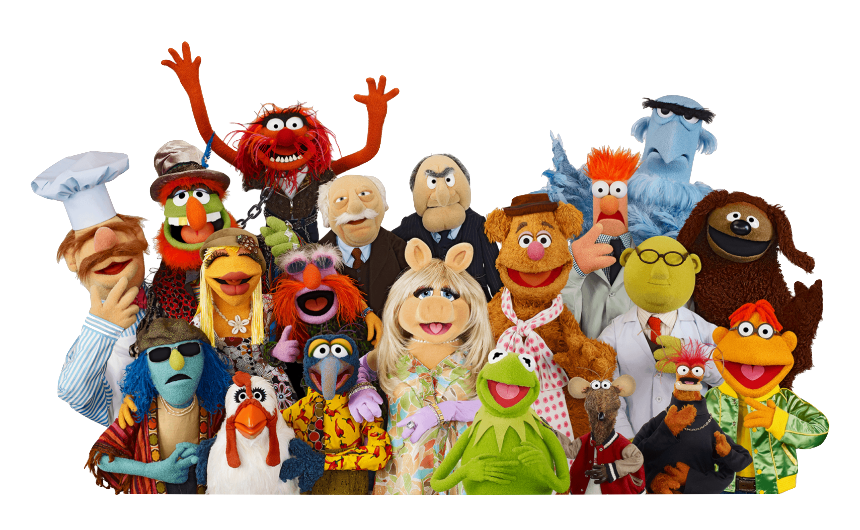
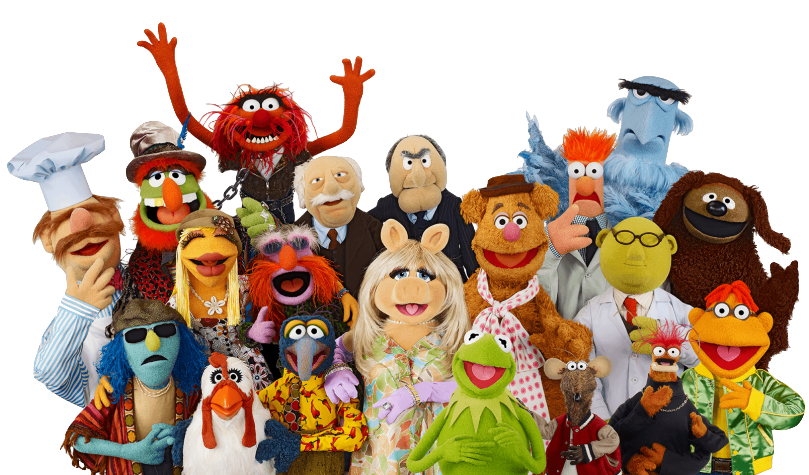
Styles muppets

diff --git a/styles.css b/styles.css
@@ -1,12 +1,75 @@
 body {
     background-color: #FEFF57;
+}
+
+header {
+    margin: 50px;
+    text-align: center;
+}
+
+main {
     display: flex;
     justify-content: center;
+    flex-wrap: wrap;
+    max-width: 1000px;
+    margin: 0 auto;
+}
+
+article img {
+    border-radius: 50%;
+    width: 175px;
+    height: 175px;
+    object-fit: cover;
+    object-position: top;
+    margin: 0 30px;
+}
+
+article {
+    display: flex;
+    justify-content: center;
+    align-items: center;
+    margin: 15px;
+}
+
+article div {
+    margin: 0 30px;
+}
+
+article div h4 {
+    font-family: muppetsFont, Monaco, sans-serif;
+    font-size: 30px;
+    letter-spacing: 1px;
+    margin: 0;
+    color: #174E90
+}
+
+article div p {
+    color: #174E90;
+    font-family: Monaco, sans-serif;
+    font-size: 20px;
+    margin: 20px 0;
+}
+
+article div button {
+    background-color: #729943;
+    border: none;
+    border-radius: 20px;
+    padding: 5px 20px;
+    font-family: Monaco, sans-serif;
+    color: #fff;
+    cursor: pointer;
 }
 
 section {
-    position: fixed;
+    position: static;
     bottom: 0;
+    text-align: center;
+    width: 100%;
+    margin: 0;
+}
+
+section img {
+    padding:0;
 }
 
 @media screen and (max-width: 880px) {
@@ -15,8 +78,26 @@ section {
     }
 }
 
+@media screen and (min-width: 880px){
+    article {
+        flex-direction: column;
+        margin-bottom: 30px;
+        text-align: center;
+    }
+    article img {
+        margin-bottom: 20px;
+        width: 225px;
+        height: 225px;
+    }
+}
+
 @media screen and (max-width: 500px) {
     header img {
         width: 100%;
     }
+}
+
+@font-face {
+    font-family: muppetsFont;
+    src: url(assets/the_muppet_font.otf);
 }

diff --git a/index.php b/index.php
@@ -1,10 +1,80 @@
 <?php
 
+use Muppets\Classes\MuppetDisplay;
 require_once 'vendor/autoload.php';
+
+$muppets = [
+        ['id' => 1,
+    'name' => 'Miss Piggy',
+    'img_url' => 'https://upload.wikimedia.org/wikipedia/en/thumb/2/22/MissPiggy.jpg/220px-MissPiggy.jpg',
+    'debut_year' => 1986,
+    'mayhem' => 50,
+    'glamour' => 20,
+    'humour' => 5,
+    'hall_of_fame' => 10],
+    ['id' => 1,
+        'name' => 'Miss Piggy',
+        'img_url' => 'https://upload.wikimedia.org/wikipedia/en/thumb/2/22/MissPiggy.jpg/220px-MissPiggy.jpg',
+        'debut_year' => 1986,
+        'mayhem' => 50,
+        'glamour' => 20,
+        'humour' => 5,
+        'hall_of_fame' => 10],
+    ['id' => 1,
+        'name' => 'Miss Piggy',
+        'img_url' => 'https://upload.wikimedia.org/wikipedia/en/thumb/2/22/MissPiggy.jpg/220px-MissPiggy.jpg',
+        'debut_year' => 1986,
+        'mayhem' => 50,
+        'glamour' => 20,
+        'humour' => 5,
+        'hall_of_fame' => 10],
+    ['id' => 1,
+        'name' => 'Miss Piggy',
+        'img_url' => 'https://upload.wikimedia.org/wikipedia/en/thumb/2/22/MissPiggy.jpg/220px-MissPiggy.jpg',
+        'debut_year' => 1986,
+        'mayhem' => 50,
+        'glamour' => 20,
+        'humour' => 5,
+        'hall_of_fame' => 10],
+    ['id' => 1,
+        'name' => 'Miss Piggy',
+        'img_url' => 'https://upload.wikimedia.org/wikipedia/en/thumb/2/22/MissPiggy.jpg/220px-MissPiggy.jpg',
+        'debut_year' => 1986,
+        'mayhem' => 50,
+        'glamour' => 20,
+        'humour' => 5,
+        'hall_of_fame' => 10],
+    ['id' => 1,
+        'name' => 'Miss Piggy',
+        'img_url' => 'https://upload.wikimedia.org/wikipedia/en/thumb/2/22/MissPiggy.jpg/220px-MissPiggy.jpg',
+        'debut_year' => 1986,
+        'mayhem' => 50,
+        'glamour' => 20,
+        'humour' => 5,
+        'hall_of_fame' => 10],
+    ['id' => 1,
+        'name' => 'Miss Piggy',
+        'img_url' => 'https://upload.wikimedia.org/wikipedia/en/thumb/2/22/MissPiggy.jpg/220px-MissPiggy.jpg',
+        'debut_year' => 1986,
+        'mayhem' => 50,
+        'glamour' => 20,
+        'humour' => 5,
+        'hall_of_fame' => 10],
+    ['id' => 1,
+        'name' => 'Miss Piggy',
+        'img_url' => 'https://upload.wikimedia.org/wikipedia/en/thumb/2/22/MissPiggy.jpg/220px-MissPiggy.jpg',
+        'debut_year' => 1986,
+        'mayhem' => 50,
+        'glamour' => 20,
+        'humour' => 5,
+        'hall_of_fame' => 10]
+];
+
+$muppetDisplay = new MuppetDisplay($muppets);
 
 ?>
 
-<html>
+<html lang="en-GB">
 <head>
     <meta charset="UTF-8">
     <meta name="viewport"
@@ -16,15 +86,15 @@ require_once 'vendor/autoload.php';
 <body>
 
 <header>
-    <img src="assets/muppet_logo.png" />
+    <img src="assets/muppet_logo.png" alt="Hyper Lynx Muppet Logo"/>
 </header>
 
 <main>
-
+    <?php echo $muppetDisplay->getMuppetString(); ?>
 </main>
 
-<section class="muppetImageContainer">
-    <img class="muppetImage" src="assets/muppets.png" />
+<section>
+    <img src="assets/muppets.png" alt="All the muppets" />
 </section>
 
 </body>

diff --git a/src/Classes/MuppetDisplay.php b/src/Classes/MuppetDisplay.php
@@ -16,7 +16,7 @@
 //  </div>
 //</article>
 
-namespace App\Classes;
+namespace Muppets\Classes;
 
 /**
  *Displays all the muppets as a html string
@@ -36,7 +36,7 @@ class MuppetDisplay {
     protected function displayMuppets(): string
     {
         foreach ($this->muppets as $muppet){
-            $this->muppetString .= "<article><img href='" . $muppet['img_url'] . "' alt='" . $muppet['name'] ."'/>"
+            $this->muppetString .= "<article><img src='" . $muppet['img_url'] . "' alt='" . $muppet['name'] ."'/>"
                 . "<div><h4>" . $muppet['name'] . "</h4>"
                 . "<p>" . $muppet['debut_year'] . "</p>"
                 . "<button value='". $muppet['id'] . "' type='submit' action='details.php'>See More</button>"
@@ -51,6 +51,6 @@ class MuppetDisplay {
      */
     public function getMuppetString(): string
     {
-        return $this->muppetString;
+        return $this->displayMuppets();
     }
 }
